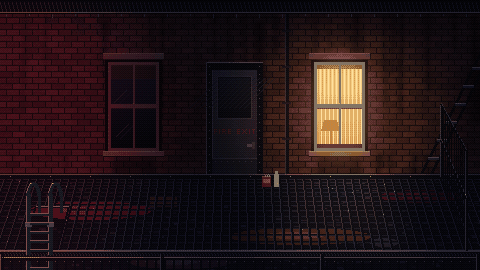
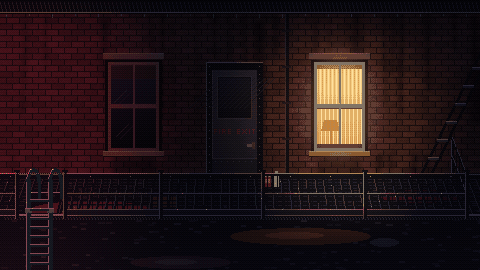
Motel: shallower fire-escape landing with a safety rail; office jazz with Eleanor
- The landing is about half as deep, with the alley open below. A standing safety rail
  (posts, top and mid rails, pickets, toe plate) runs along its edge and breaks at the
  ladder hatch. It is a foreground layer, so characters stand behind it.
- The fire escape and the motel room play OfficeJazz while Micah is with Eleanor. The
  interludes, where she is alone, stay silent.

diff --git a/tools/art/motel_exterior.py b/tools/art/motel_exterior.py
@@ -9,7 +9,7 @@ import math
 import random
 from PIL import Image, ImageDraw, ImageChops, ImageFilter
 from .common import (W, FULL_H, hx, mix, mul, vgrad, noise, light, shadow, vignette, palette_of, pixelize, save, text,
-                     _mask)
+                     cut, _mask)
 from .street import bricks
 from .act2_rooms import crate as fruit_crate
 
@@ -569,9 +569,15 @@ def build_alley():
 # ------------------------------------------------------------------------------------------------ the landing
 
 FOOT = 176                       # where the landing's grating meets the wall
-EDGE = 250                       # the landing's front edge
+EDGE = 214                       # the landing's front edge: a shallow strip of grating, the alley open below it
+FE_RAIL_H = 40                   # the safety rail's height at the front edge, about a man's hip
+FE_TOP, FE_MID = EDGE - FE_RAIL_H, EDGE - FE_RAIL_H // 2
+FE_RAIL_END = 466                # the right-hand end of the landing, where the rail turns back to the wall
+FE_RAIL_RUNS = ((0, 18, (16,)), (64, FE_RAIL_END, (64, 160, 262, 364, FE_RAIL_END)))  # (x0, x1, posts) either side of the hatch
+FE_FG_Y = FE_TOP - 4             # the top of the foreground layer holding the front rail
 FE_VP = (240, -420)              # the grating's long bars converge very gently on this point
 HATCH = (22, 56)                 # the opening the drop ladder comes up through, at the front left
+HATCH_TOP = 192                  # the hatch's back edge on the grating
 FE_DOOR = (212, 70, 256, FOOT)
 FE_WINDOWS = ((108, 62, 158, 150), (314, 62, 364, 150))
 FE_LIT = FE_WINDOWS[1]           # Eleanor's room
@@ -618,7 +624,7 @@ def landing(img):
         d.line([(fe_x(xb, FOOT), FOOT), (xb, EDGE)], fill=IRON, width=2)
         d.line([(fe_x(xb, FOOT) - 1, FOOT), (xb - 1, EDGE)], fill=IRON_M)
     # the hatch the drop ladder comes up through: a frame round a hole straight down to the alley
-    top = 206
+    top = HATCH_TOP
     hole = [(fe_x(h0, top), top), (fe_x(h1, top), top), (h1, EDGE), (h0, EDGE)]
     img2 = Image.new("RGB", img.size)
     below(img2)
@@ -645,44 +651,60 @@ def fe_ladder(d):
     over the lit picture, rimmed red by the big sign round the corner."""
     h0, h1 = HATCH
     l0, l1 = h0 + 6, h1 - 6
+    t = HATCH_TOP - 24           # the top of the goosenecks
     body, rim, hot = hx("161a22"), hx("b04858"), hx("ff8a98")
     for x in (l0, l1):
-        d.line([(x, 194), (x, H)], fill=body, width=4)
-        d.line([(x - 2, 196), (x - 2, H)], fill=rim)
-        d.arc([x - 2, 182, x + 12, 208], 180, 360, fill=body, width=4)
-        d.arc([x - 2, 182, x + 12, 208], 190, 250, fill=rim)
-        d.line([(x + 11, 194), (x + 11, 212)], fill=body, width=3)
-        d.point((x + 2, 183), fill=hot)
-        d.rectangle([x - 3, 222, x + 3, 226], fill=hx("3a3e48"))
-        d.line([(x - 3, 222), (x + 3, 222)], fill=rim)
-    for ry in range(214, H, 9):
+        d.line([(x, t + 12), (x, H)], fill=body, width=4)
+        d.line([(x - 2, t + 14), (x - 2, H)], fill=rim)
+        d.arc([x - 2, t, x + 12, t + 26], 180, 360, fill=body, width=4)
+        d.arc([x - 2, t, x + 12, t + 26], 190, 250, fill=rim)
+        d.line([(x + 11, t + 12), (x + 11, t + 30)], fill=body, width=3)
+        d.point((x + 2, t + 1), fill=hot)
+        d.rectangle([x - 3, t + 40, x + 3, t + 44], fill=hx("3a3e48"))
+        d.line([(x - 3, t + 40), (x + 3, t + 40)], fill=rim)
+    for ry in range(t + 32, H, 9):
         d.line([(l0 + 2, ry), (l1 - 2, ry)], fill=body, width=3)
         d.line([(l0 + 2, ry - 1), (l1 - 2, ry - 1)], fill=rim)
 
 
 def fe_rails(d):
-    """The low rail along the front in the foreground and the railing up the right-hand end, back to the wall."""
+    """The safety railing up the right-hand end, back to the wall, and the one along the front edge."""
     # the right-hand end: a post at the front and one against the wall, rails between them in perspective
-    fx, wx = 466, int(fe_x(466, FOOT))
-    for (x, yb, yt) in ((fx, EDGE, 150), (wx, FOOT, 104)):
+    fx, wx = FE_RAIL_END, int(fe_x(FE_RAIL_END, FOOT))
+    k = (FOOT - FE_VP[1]) / (EDGE - FE_VP[1])  # how much smaller the rail stands back at the wall
+    wall_top, wall_mid = round(FOOT - FE_RAIL_H * k), round(FOOT - FE_RAIL_H * k / 2)
+    for (x, yb, yt) in ((wx, FOOT, wall_top),):
         d.line([(x, yb), (x, yt)], fill=IRON, width=3)
         d.line([(x - 1, yb), (x - 1, yt)], fill=IRON_E)
-    for k, (fy, wy) in enumerate(((150, 104), (198, 140))):
+    for fy, wy in ((FE_TOP, wall_top), (FE_MID, wall_mid)):
         d.line([(fx, fy), (wx, wy)], fill=IRON, width=2)
         d.line([(fx, fy - 1), (wx, wy - 1)], fill=IRON_E)
-    for i in range(1, 12):
-        t = i / 12
+    for i in range(1, 4):
+        t = i / 4
         x = round(fx + (wx - fx) * t)
-        d.line([(x, EDGE + (FOOT - EDGE) * t), (x, 150 + (104 - 150) * t)], fill=IRON)
-    # the front rail: we look over it; balusters run down out of the picture
-    d.line([(0, 258), (W - 1, 258)], fill=IRON, width=3)
-    d.line([(0, 257), (W - 1, 257)], fill=IRON_H)
-    for x in range(2, W, 9):
-        d.line([(x, 260), (x, H)], fill=IRON, width=2)
-        d.point((x - 1, 261), fill=IRON_E)
-    for px in (0, 160, 320, 476):
-        d.rectangle([px, 254, px + 3, H], fill=IRON)
-        d.line([(px, 254), (px, H)], fill=IRON_E)
+        d.line([(x, EDGE + (FOOT - EDGE) * t), (x, FE_TOP + (wall_top - FE_TOP) * t)], fill=IRON)
+    fe_front_rail(d)
+
+
+def fe_front_rail(d, mask=False):
+    """The safety rail standing on the front edge, between the characters and the drop: square posts bolted to the
+    edge channel, a top rail and a mid rail of flat bar, close-set pickets and a toe plate. It breaks at the hatch,
+    where the drop ladder's goosenecks are the handhold. With mask=True every part is drawn in white, giving the
+    foreground layer's cut-out."""
+    body, edge, hi, toe = (255,) * 4 if mask else (IRON, IRON_E, IRON_H, hx("1c2028"))
+    for x0, x1, posts in FE_RAIL_RUNS:
+        d.rectangle([x0, EDGE - 5, x1, EDGE], fill=toe)
+        d.line([(x0, EDGE - 5), (x1, EDGE - 5)], fill=edge)
+        for x in range(x0 + 3, x1 - 1, 5):
+            d.line([(x, FE_TOP + 2), (x, EDGE - 6)], fill=body)
+        d.rectangle([x0, FE_MID - 1, x1, FE_MID], fill=body)
+        d.line([(x0, FE_MID - 1), (x1, FE_MID - 1)], fill=edge)
+        d.rectangle([x0, FE_TOP - 1, x1, FE_TOP + 1], fill=body)
+        d.line([(x0, FE_TOP - 1), (x1, FE_TOP - 1)], fill=hi)
+        for px in posts:
+            d.rectangle([px - 1, FE_TOP - 3, px + 2, EDGE + 4], fill=body)
+            d.line([(px - 1, FE_TOP - 3), (px - 1, EDGE + 4)], fill=edge)
+            d.rectangle([px - 2, FE_TOP - 4, px + 3, FE_TOP - 3], fill=body)
 
 
 def fe_wall(img):
@@ -844,11 +866,9 @@ def paint_fire_escape():
     lit_glass(img)
     light(img, "ellipse", [wx0 - 12, wy0 - 10, wx1 + 12, wy1 + 12], hx("ffc070"), 0.22, 10)
     d = ImageDraw.Draw(img)
-    band = img.crop((0, 255, 80, 261))  # the front rail passes in front of the ladder
     fe_ladder(d)
-    img.paste(band, (0, 255))
-    # the railing catches the neon from the left
-    for y in (257,):
+    # the top rail catches the neon from the left
+    for y in (FE_TOP - 1,):
         for x in range(0, 200, 2):
             d.point((x, y), fill=mix(img.getpixel((x, y)), (255, 90, 110), 0.5 * (1 - x / 200)))
     rnd = random.Random(70)
@@ -868,6 +888,15 @@ def build_fire_escape():
     pal = palette_of(img, 116) + [hx("f4cc80"), hx("ffe0a0"), hx("d89a50"), hx("c8843a"), hx("8a5a30"),
                                   hx("3a2414"), hx("ff3048"), hx("12151c")]
     save(pixelize(img, pal), "rooms", "motel_fire_escape.png")
+    save(fire_escape_front(pixelize(img, pal)), "rooms", "motel_fire_escape_fg.png")
+
+
+def fire_escape_front(px):
+    """The front safety rail cut out of the finished background, for the scene to y-sort in front of the characters
+    standing on the landing. Cropped to the rail's rows; the scene places it at (0, FE_FG_Y)."""
+    mask = Image.new("L", (W, H), 0)
+    fe_front_rail(ImageDraw.Draw(mask), mask=True)
+    return cut(px, mask).crop((0, FE_FG_Y, W, EDGE + 5))
 
 
 def build():

diff --git a/tests/art/test_motel_exterior_art.py b/tests/art/test_motel_exterior_art.py
@@ -33,7 +33,7 @@ class MotelExteriorArtTests(unittest.TestCase):
     def test_committed_art_matches_the_generator(self):
         names = sorted(path.name for path in self.generated.glob("*.png"))
         self.assertEqual(names, ["motel_alley.png", "motel_alley_crate.png", "motel_alley_crate_under.png",
-                                 "motel_alley_ladder.png", "motel_fire_escape.png"])
+                                 "motel_alley_ladder.png", "motel_fire_escape.png", "motel_fire_escape_fg.png"])
         for name in names:
             with self.subTest(asset=name), Image.open(self.generated / name) as generated, \
                     Image.open(ROOMS / name) as committed:
@@ -75,6 +75,27 @@ class MotelExteriorArtTests(unittest.TestCase):
         base = motel_exterior.paint_alley()
         home = motel_exterior.paint_alley(crate="home")
         self.assertIsNotNone(ImageChops.difference(base, home).getbbox())
+
+    def test_front_rail_is_cut_from_the_landing_and_sorted_in_front_of_the_floor(self):
+        scene = (ROOT / "scenes" / "rooms" / "motel_fire_escape.tscn").read_text()
+        node = next(block for block in re.split(r"(?=\[node )", scene) if 'name="RailFront"' in block)
+        x, y = map(int, re.search(r"position = Vector2\((\d+), (\d+)\)", node).groups())
+        offset = int(re.search(r"offset = Vector2\(0, (-\d+)\)", node)[1])
+        walk_bottom = max(map(int, re.search(r"polygon = PackedVector2Array\(([^)]*)\)", scene)[1]
+                              .replace(" ", "").split(",")[1::2]))
+        self.assertGreater(y, walk_bottom, "everyone on the landing stands behind the rail")
+        with Image.open(ROOMS / "motel_fire_escape.png") as background, \
+                Image.open(ROOMS / "motel_fire_escape_fg.png") as front:
+            top = y + offset
+            self.assertEqual((x, top), (0, motel_exterior.FE_FG_Y))
+            alpha = front.getchannel("A")
+            self.assertEqual(alpha.getextrema(), (0, 255))
+            self.assertEqual(alpha.histogram()[1:255], [0] * 254, "the cut-out is hard-edged")
+            crop = background.convert("RGBA").crop((0, top, front.width, top + front.height))
+            crop.putalpha(alpha)
+            self.assert_images_equal(front, crop)
+            hatch = alpha.crop((motel_exterior.HATCH[0] + 6, 0, motel_exterior.HATCH[1] + 4, front.height))
+            self.assertIsNone(hatch.getbbox(), "the rail breaks at the hatch for the ladder")
 
 
 if __name__ == "__main__":

diff --git a/scripts/Debug/AutoPlay/AutoPlay.Act1.cs b/scripts/Debug/AutoPlay/AutoPlay.Act1.cs
@@ -460,12 +460,16 @@ public partial class AutoPlay
         Check(game.Hud.SpeechText == "Twenty a day. I used to spend that on gloves." && !game.Hud.InsetDrawn,
             "the compensation answer rejoins the existing conversation on the fire escape");
         Check(_closeUpAtRoadChoice == null, "Micah answers the compensation choice without a portrait panel");
+        Check(game.Music.Current == Track.OfficeJazz, "the office jazz plays on the fire escape with Eleanor");
+        int jazzStarts = game.Music.Count(Track.OfficeJazz);
         await Shot("motel_fire_escape");
         await Until(() => game.Hud.SpeechVisible && game.Hud.SpeechText.Contains("can't go back"));
         Check(game.Hud.CurrentCloseUp == null && !game.Hud.InsetDrawn && game.Room is Rooms.MotelFireEscape,
             "the rest of Eleanor's conversation stays on the fire escape without the panel");
         await Until(() => game.Room?.Name == "MotelNight");
         Check(game.Player.Character == "micah_dressing", "Micah getting dressed in the motel");
+        Check(game.Music.Current == Track.OfficeJazz && game.Music.Count(Track.OfficeJazz) == jazzStarts,
+            "the office jazz carries on, uninterrupted, into Eleanor's room");
         await game.Wait(2);
         await Shot("motel_night");
         await Until(() => game.Room?.Name == "Attic");

diff --git a/scripts/Debug/AutoPlay/AutoPlay.Act3.cs b/scripts/Debug/AutoPlay/AutoPlay.Act3.cs
@@ -21,6 +21,7 @@ public partial class AutoPlay
         await WaitIdle(game);
         Check(gs.HasFlag("interlude2") && game.Player.Character == "eleanor_play" && gs.Inventory.Count == 0 && !gs.HasItem("revolver"),
             "the player is Eleanor at the motel, with nothing of Micah's");
+        Check(game.Music.Current == null, "no office jazz in the motel once Micah has gone");
         await Shot("interlude_motel_goons");
         var taken = game.Perform(Verb.Hand, "door");
         await Until(() => game.Room?.FindActor("brute") is { Visible: true } b && b.Position.DistanceTo(new Vector2(84, 212)) < 1

diff --git a/scripts/Rooms/MotelFireEscape.cs b/scripts/Rooms/MotelFireEscape.cs
@@ -6,6 +6,9 @@ namespace Repentance.Rooms;
 /// <summary>Act 1: the motel fire escape, one floor up. Eleanor is waiting for Micah in the rain.</summary>
 public partial class MotelFireEscape : Room
 {
+    /// <summary>Micah and Eleanor share the office's slow jazz; it carries on into her room.</summary>
+    public override Track? Music => Track.OfficeJazz;
+
     public override async Task OnEnter(string entry)
     {
         await Game.Run(async () =>

diff --git a/scripts/Rooms/MotelNight.cs b/scripts/Rooms/MotelNight.cs
@@ -16,6 +16,9 @@ public partial class MotelNight : Room
     private bool First => State.HasFlag("interlude1");
     private bool Second => State.HasFlag("interlude2");
 
+    /// <summary>The office jazz plays while Micah is here with Eleanor; in the interludes she is alone, in silence.</summary>
+    public override Track? Music => First || Second ? null : Track.OfficeJazz;
+
     private Texture2D? _occupied;
 
     protected override void OnRefresh()

diff --git a/docs/audio.md b/docs/audio.md
@@ -48,7 +48,7 @@ optional word in `CuesFor`. Validate with `SoundSynthTests` and the
 | `ClubStrings` | Club vestibule, hall, lounge, stage, backstage | Dark string bolero in 3/4 |
 | `ChurchOrgan` | Church interior | Organist trying the pipes, then a chorale |
 | `ConventPiano` | Convent corridor, cell | Hymn-like piano prelude in E-flat |
-| `OfficeJazz` | Office | Slow D-minor ballad, muted trumpet, piano, bass |
+| `OfficeJazz` | Office; motel fire escape and room while Micah is with Eleanor (not the interludes) | Slow D-minor ballad, muted trumpet, piano, bass |
 
 A room returns its track from `Room.Music`; moving between rooms with the same track does not restart it. Tracks are
 about a minute, rendered on worker threads in `Music._Ready`; rendering runs the loop twice and keeps the second
